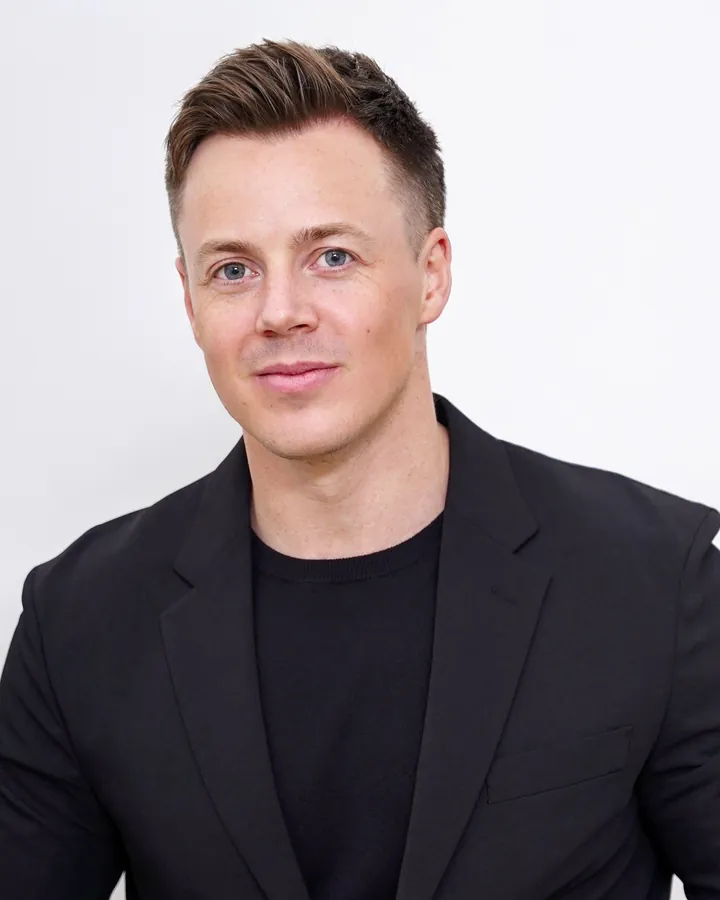
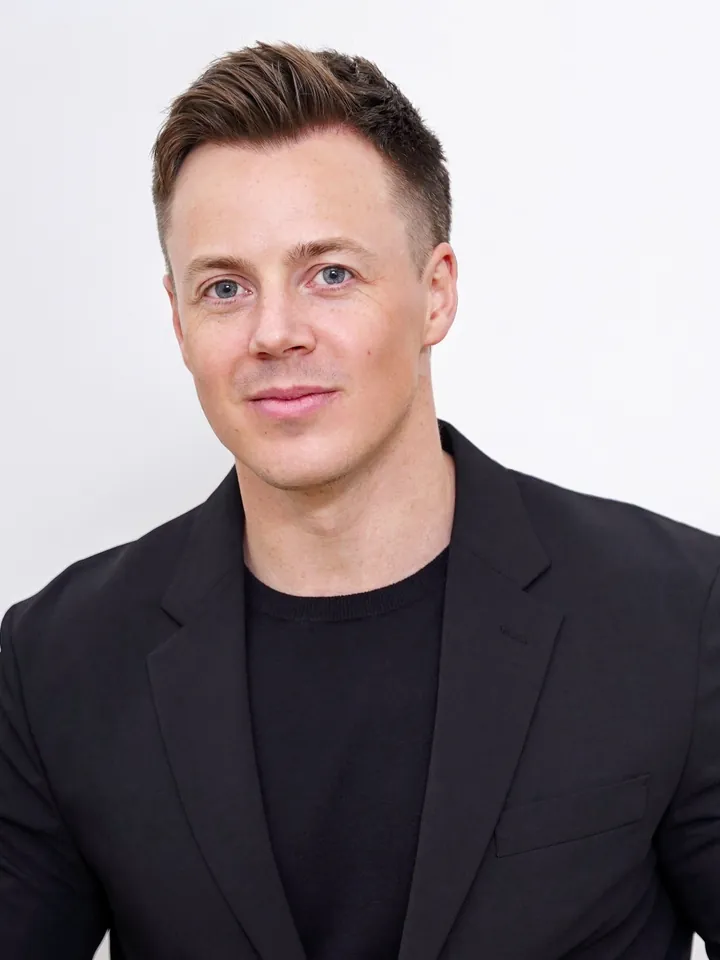
Phase 1.5 §2.7 + A1/A6/A7: 3:4 portraits, img height reset, nav byline, wordmark clearance to 430px
img { height:auto } in the system reset so width/height attributes set the
ratio and never the box (the team portraits were rendering 443x900 through
the face). Portraits re-exported at 720x960 — scale to 960 tall, centre-crop
the width — the crop the CSS produced from the originals; team and home
share the assets. .nav-sub to --gold-text at 9px; the byline hides and the
wordmark may wrap up to 430px so the phone glyph clears it at 390. Footer
tel link 6px block padding. The mobile bar's links shrink instead of
widening the page on narrow phones.

diff --git a/mckinney-system.css b/mckinney-system.css
@@ -70,7 +70,7 @@ body.page-editorial {
 html { -webkit-font-smoothing: antialiased; }
 body { font-family: var(--font-b); color: var(--text-1); background: var(--white); overflow-x: hidden; }
 a { color: inherit; text-decoration: none; }
-img { display: block; max-width: 100%; }
+img { display: block; max-width: 100%; height: auto; }   /* width/height attrs set the ratio, never the box */
 html { scroll-padding-top: 5.5rem; }
 
 /* ============================================================
@@ -146,7 +146,7 @@ em.gi { font-family: var(--font-d); font-style: italic; font-weight: 300; color:
 /* Wordmark: "McKinney Multifamily Group" is longer than the old name —
    size/tracking tightened a step so the nav links keep clear space. */
 .nav-name { font-family: var(--font-d); font-size: 1rem; font-weight: 500; letter-spacing: 0.14em; text-transform: uppercase; color: var(--navy); line-height: 1; white-space: nowrap; }
-.nav-sub { font-size: 0.5rem; font-weight: 400; letter-spacing: 0.15em; text-transform: uppercase; color: var(--gold-dark); margin-top: 2px; }
+.nav-sub { font-size: 0.5625rem; font-weight: 400; letter-spacing: 0.15em; text-transform: uppercase; color: var(--gold-text); margin-top: 2px; }
 .nav-links { display: flex; gap: 2.25rem; align-items: center; }
 .nav-links a { font-size: var(--b-sm); font-weight: 400; color: var(--text-2); letter-spacing: 0.03em; transition: color 0.3s; }
 .nav-links a:hover { color: var(--text-1); }
@@ -364,7 +364,7 @@ html:not([data-header-band]) .nav-band { display: none !important; }
   padding-top: var(--s-3); border-top: 1px solid rgba(255,255,255,0.06);
 }
 .footer-legal, .footer-copy { font-size: 0.6875rem; font-weight: 300; color: rgba(255,255,255,0.55); line-height: 1.7; }
-.footer-legal a { color: inherit; text-decoration: underline; text-underline-offset: 2px; padding-block: 5px; }
+.footer-legal a { color: inherit; text-decoration: underline; text-underline-offset: 2px; padding-block: 6px; }
 .footer-copy { flex: none; white-space: nowrap; }
 .footer-nav a { font-size: 0.6875rem; font-weight: 400; color: rgba(255,255,255,0.6); letter-spacing: 0.03em; transition: color 0.3s; }
 .footer-nav a:hover { color: rgba(255,255,255,0.92); }
@@ -574,7 +574,9 @@ html:not([data-header-band]) .nav-band { display: none !important; }
   .track-metric:last-child { border-bottom: none; }
 }
 
-@media (max-width: 380px) {
+/* phones to 430: the byline goes and the wordmark may wrap, so the phone
+   glyph and hamburger never overprint it (addendum A1) */
+@media (max-width: 430px) {
   .nav-sub { display: none; }
   .nav-text { min-width: 0; }
   .nav-name { white-space: normal; overflow-wrap: anywhere; line-height: 1.1; }
@@ -585,15 +587,17 @@ html:not([data-header-band]) .nav-band { display: none !important; }
    the reader is 40% down the page, hidden while the modal is open, the
    consent bar is up, or Your Next Step is in view. */
 .mck-bar {
-  position: fixed; left: 0; right: 0; bottom: 0; z-index: 900; height: 56px;
+  position: fixed; left: 0; right: 0; bottom: 0; z-index: 900; height: 56px; overflow: hidden;
   display: flex; background: var(--navy); border-top: 1px solid rgba(255,255,255,0.12);
   transform: translateY(100%); transition: transform 0.3s ease;
 }
 .mck-bar.is-shown { transform: translateY(0); }
 .mck-bar a {
-  flex: 1; display: inline-flex; align-items: center; justify-content: center; gap: 0.5rem;
-  font-size: 0.6875rem; font-weight: 500; letter-spacing: 0.12em; text-transform: uppercase; color: var(--white);
+  flex: 1 1 0; min-width: 0; display: inline-flex; align-items: center; justify-content: center; gap: 0.5rem;
+  padding: 0 0.5rem; white-space: nowrap;
+  font-size: 0.6875rem; font-weight: 500; letter-spacing: 0.08em; text-transform: uppercase; color: var(--white);
 }
+@media (max-width: 360px) { .mck-bar a { font-size: 0.625rem; letter-spacing: 0.06em; } }
 .mck-bar a + a { border-left: 1px solid rgba(255,255,255,0.12); }
 .mck-bar svg { width: 14px; height: 14px; fill: none; stroke: currentColor; stroke-width: 1.5; stroke-linecap: round; stroke-linejoin: round; }
 @media (min-width: 769px) { .mck-bar { display: none; } }

diff --git a/team.html b/team.html
@@ -36,7 +36,7 @@
 </script>
 
 <link href="https://fonts.googleapis.com/css2?family=Cormorant+Garamond:ital,wght@0,300;0,400;0,500;0,600;1,300;1,400;1,500&family=DM+Sans:ital,wght@0,300;0,400;0,500;1,300&display=swap" rel="stylesheet">
-<link rel="stylesheet" href="mckinney-system.css?v=3">
+<link rel="stylesheet" href="mckinney-system.css?v=4">
 <script src="/mckinney-nav.js" defer></script>
 <style>
 /* ============================================================
@@ -250,7 +250,7 @@
       <div class="nav-drop-menu" id="nav-menu-about">
         <a href="/team">Our Team</a>
         <a href="/services">Services</a>
-        <!-- COPY PLACEHOLDER: nav label for the owner intake page (fix spec 1.4) --><a href="/disposition-intake">Sell a Building</a>
+        <a href="/disposition-intake">Sell Your Building</a>
         <a href="/track-record">Track Record</a>
       </div>
     </div>
@@ -282,7 +282,7 @@
         <div class="tm-portrait-frame">
           <picture>
             <source srcset="images/liam-mckinney.webp" type="image/webp">
-            <img src="images/liam-mckinney.jpg" alt="Liam McKinney" width="720" height="900" decoding="async">
+            <img src="images/liam-mckinney.jpg" alt="Liam McKinney" width="720" height="960" decoding="async">
           </picture>
         </div>
       </div>
@@ -381,7 +381,7 @@
         <div class="tm-portrait-frame">
           <picture>
             <source srcset="images/sean-mckinney.webp" type="image/webp">
-            <img src="images/sean-mckinney.jpg" alt="Sean McKinney" width="720" height="900" loading="lazy" decoding="async">
+            <img src="images/sean-mckinney.jpg" alt="Sean McKinney" width="720" height="960" loading="lazy" decoding="async">
           </picture>
         </div>
       </div>
@@ -419,7 +419,7 @@
       <img class="footer-remax" src="images/brand/remax-commercial-white.png" alt="RE/MAX Commercial" width="640" height="228" loading="lazy" decoding="async">
     </div>
     <div class="footer-bottom">
-      <div class="footer-nav"><a href="/listings/">Our Listings</a><a href="/apartment-buildings-for-sale/" class="flag-listings-public">All Ontario Listings</a><a href="/tools/">Tools</a><a href="/learn/">Learn</a><a href="/insights">Insights</a><a href="/team">Our Team</a><a href="/services">Services</a><a href="/track-record">Track Record</a><a href="/contact">Contact</a></div>
+      <div class="footer-nav"><a href="/listings/">Our Listings</a><a href="/apartment-buildings-for-sale/" class="flag-listings-public">All Ontario Listings</a><a href="/tools/">Tools</a><a href="/learn/">Learn</a><a href="/insights">Insights</a><a href="/team">Our Team</a><a href="/services">Services</a><a href="/track-record">Track Record</a><a href="/contact">Contact</a><a href="/privacy">Privacy</a></div>
       <div class="footer-legal-row">
         <div class="footer-legal">McKinney Multifamily Group &middot; RE/MAX Quinte Ltd., Brokerage &middot; 106 North Front St, Belleville, ON K8P 3B4 &middot; <a href="tel:+16139699907">613.969.9907</a> &middot; Each Office Independently Owned and Operated</div>
         <div class="footer-copy">&copy; 2026 McKinney Multifamily Group &middot; mckinneyrealty.ca</div>
@@ -466,7 +466,7 @@
 <!-- ============================================================
      Modal CTA system — seller / investor / subscribe flows
      ============================================================ -->
-<script src="mckinney-modal-cta.js?v=2"></script>
+<script src="mckinney-modal-cta.js?v=3"></script>
 
 </body>
 </html>
